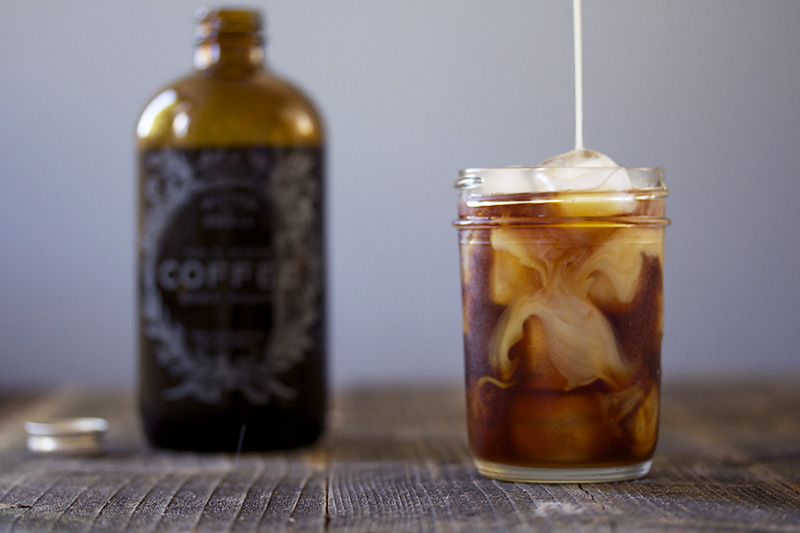
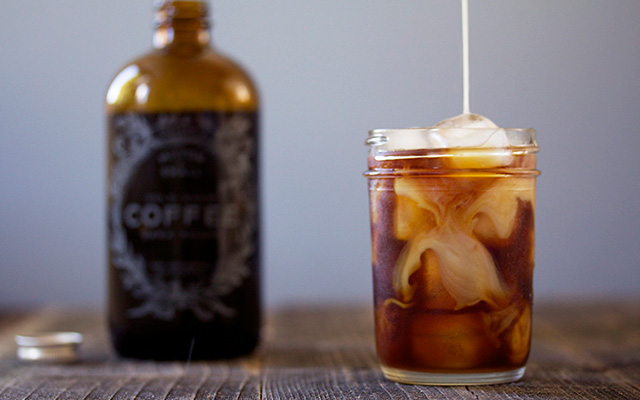
lol

Changed region(s): [[0.0, 0.0, 1.0, 1.0], [0.3438, 0.6, 0.4062, 0.63], [0.3438, 0.24, 0.375, 0.27]]

diff --git a/assets/css/coffeestyle.css b/assets/css/coffeestyle.css
@@ -234,7 +234,6 @@ a {
 }
 
 #topphoto {
-    width: 125%
     position: relative;
     height: 380px;
     object-fit: cover;
@@ -252,7 +251,6 @@ a {
 }
 
 #bottomphoto {
-    width: 100%;
     height: 380px;
     position: relative;
     object-fit: cover;
